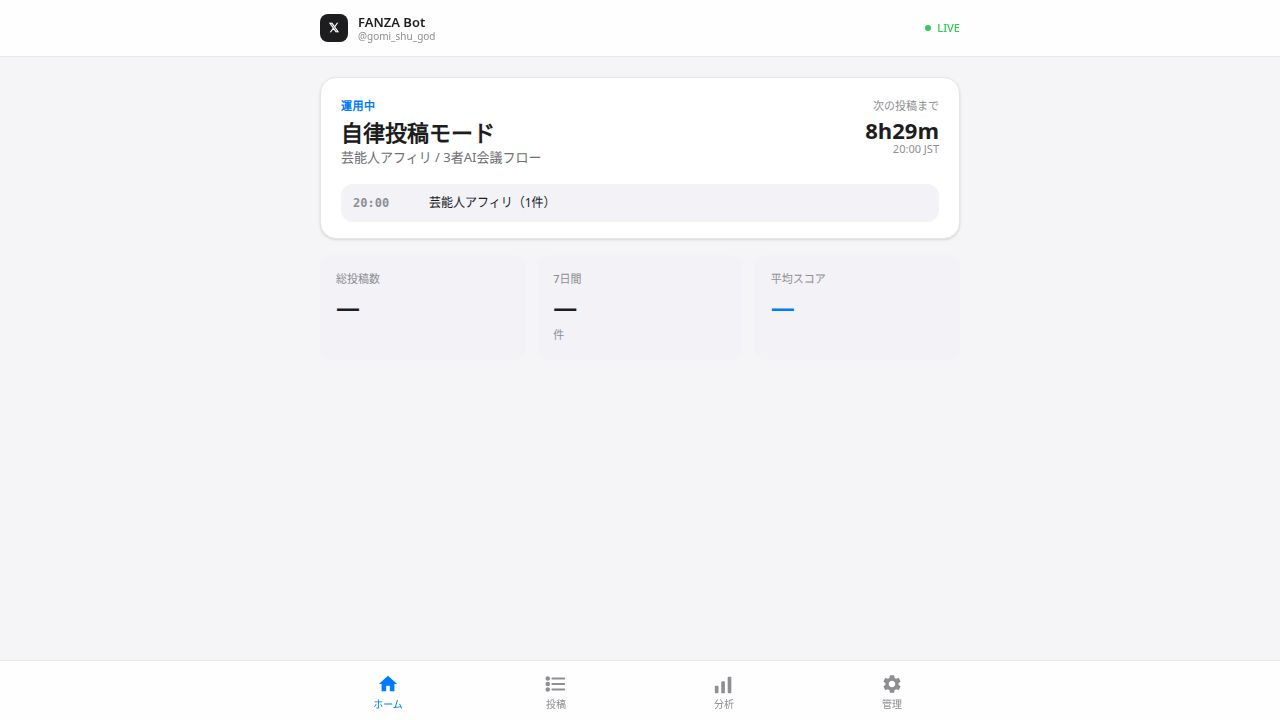
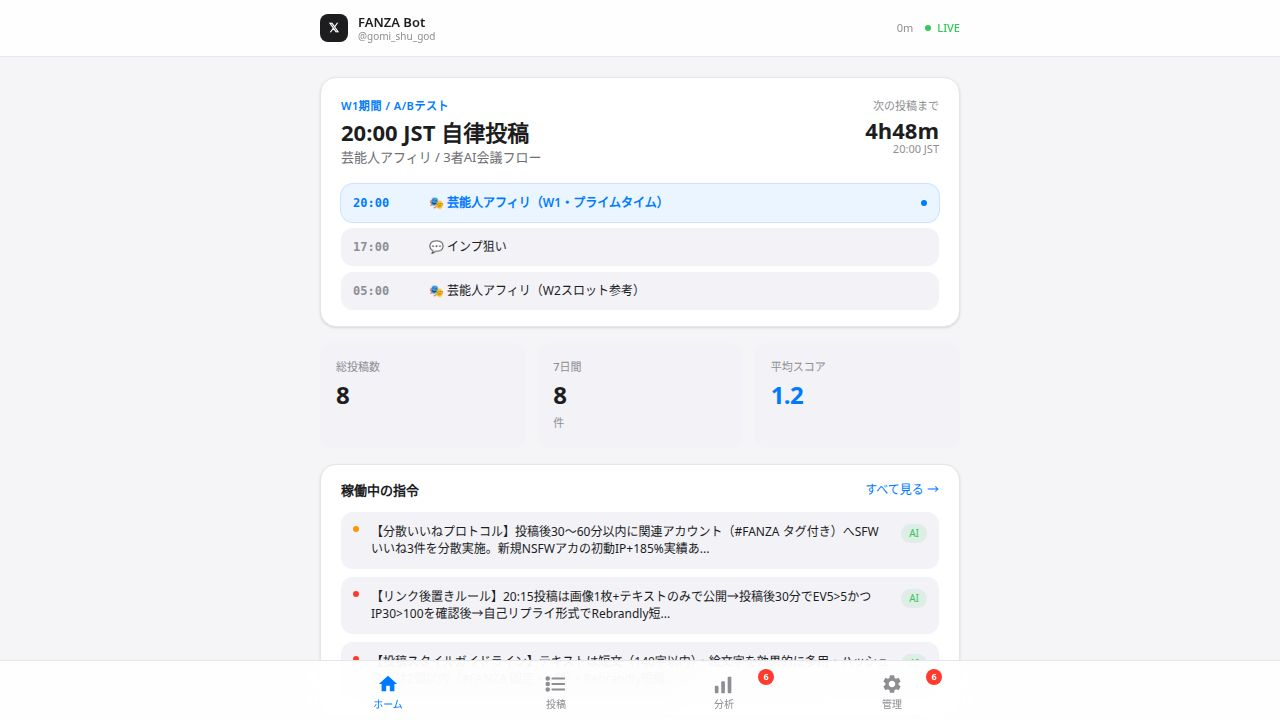
Adjust meeting trigger to avoid daily post limit conflicts
Update the meeting trigger logic to use a celebrity posted date instead of a daily post count, resolving conflicts with scheduled posts and ensuring the bot dashboard is started.

Replit-Commit-Author: Agent
Replit-Commit-Session-Id: dbd43297-de30-47b6-9241-23a816d90b91
Replit-Commit-Checkpoint-Type: full_checkpoint
Replit-Commit-Event-Id: 7b963b49-82af-4709-b28b-1d07c3d7d37b
Replit-Commit-Screenshot-Url: https://storage.googleapis.com/screenshot-production-us-central1/9438bc98-2368-4410-834b-d55717b993f1/dbd43297-de30-47b6-9241-23a816d90b91/zYRKuzU
Replit-Helium-Checkpoint-Created: true

diff --git a/artifacts/api-server/src/routes/trigger.ts b/artifacts/api-server/src/routes/trigger.ts
@@ -2,7 +2,7 @@ import { Router } from 'express';
 import { getHighRatedItems, getSaleItems, getBuzzItems, getRandomItems, getAmateurItems, getKeywordItems, getItemById, getSampleImages } from '../bot/fanza.js';
 import { uploadImages, postTweet, replyToTweet, pauseBot, resumeBot, isBotPaused, getPausedReason } from '../bot/twitter.js';
 import { generateTweetText, generateEngagementReply } from '../bot/ai.js';
-import { recordPost, getTopPatterns, getExternalTopPatterns, getPostsAfter, getRebrandlyData } from '../bot/storage.js';
+import { recordPost, getTopPatterns, getExternalTopPatterns, getPostsAfter, getRebrandlyData, getCelebPostedDate } from '../bot/storage.js';
 import { sendMeetingFullLog, sendMetricsReport, MetricsReportPost } from '../bot/contact.js';
 import { getMeetingById, getMeetings } from '../bot/meeting.js';
 import { getIsPosting as getSchedulerIsPosting, postCelebritySlotNow } from '../bot/scheduler.js';
@@ -62,18 +62,20 @@ async function runJob(type: string, label: string, fetchItems: () => Promise<any
     return { skipped: true, reason: '別の投稿が進行中（スケジューラー含む）' };
   }
 
-  // A/Bテスト週は手動トリガーも1件限定（1日1件制限を維持）
+  // A/Bテスト週は手動トリガーも1件限定（芸能人スロット投稿済みフラグで判定）
+  // todayCountではなくcelebPostedDateを使う：buzz等の他投稿が芸能人スロットをブロックしないよう
   const abWeek = getABTestWeek();
   const maxItems = (abWeek === 'W1' || abWeek === 'W2') ? 1 : 3;
   if (abWeek !== 'normal') {
-    const todayCount = getTodayPostCount();
-    if (todayCount >= 1) {
-      console.warn(`  ⚠ [trigger/${type}] ${abWeek}期間中に本日分(${todayCount}件)投稿済み → 手動トリガー実行（注意: 1日1件制限を超えます）`);
+    const todayKey = new Date(Date.now() + 9 * 3600000).toISOString().slice(0, 10);
+    const celebPosted = getCelebPostedDate() === todayKey;
+    if (celebPosted) {
+      console.warn(`  ⚠ [trigger/${type}] ${abWeek}期間中・芸能人スロット投稿済み (${todayKey}) → スキップ`);
       return {
         ok: false,
         skipped: true,
-        reason: `⚠ ${abWeek}期間中は1日1件制限です。本日すでに${todayCount}件投稿済みです。シャドウバン回復に影響する可能性があります。`,
-        todayCount,
+        reason: `⚠ ${abWeek}期間中は1日1件制限です。本日の芸能人スロットはすでに投稿済みです (${todayKey})。`,
+        celebPostedDate: todayKey,
       };
     }
     console.log(`  ⚠ [trigger/${type}] ${abWeek}期間中 → 手動トリガー投稿を1件限定で実行`);